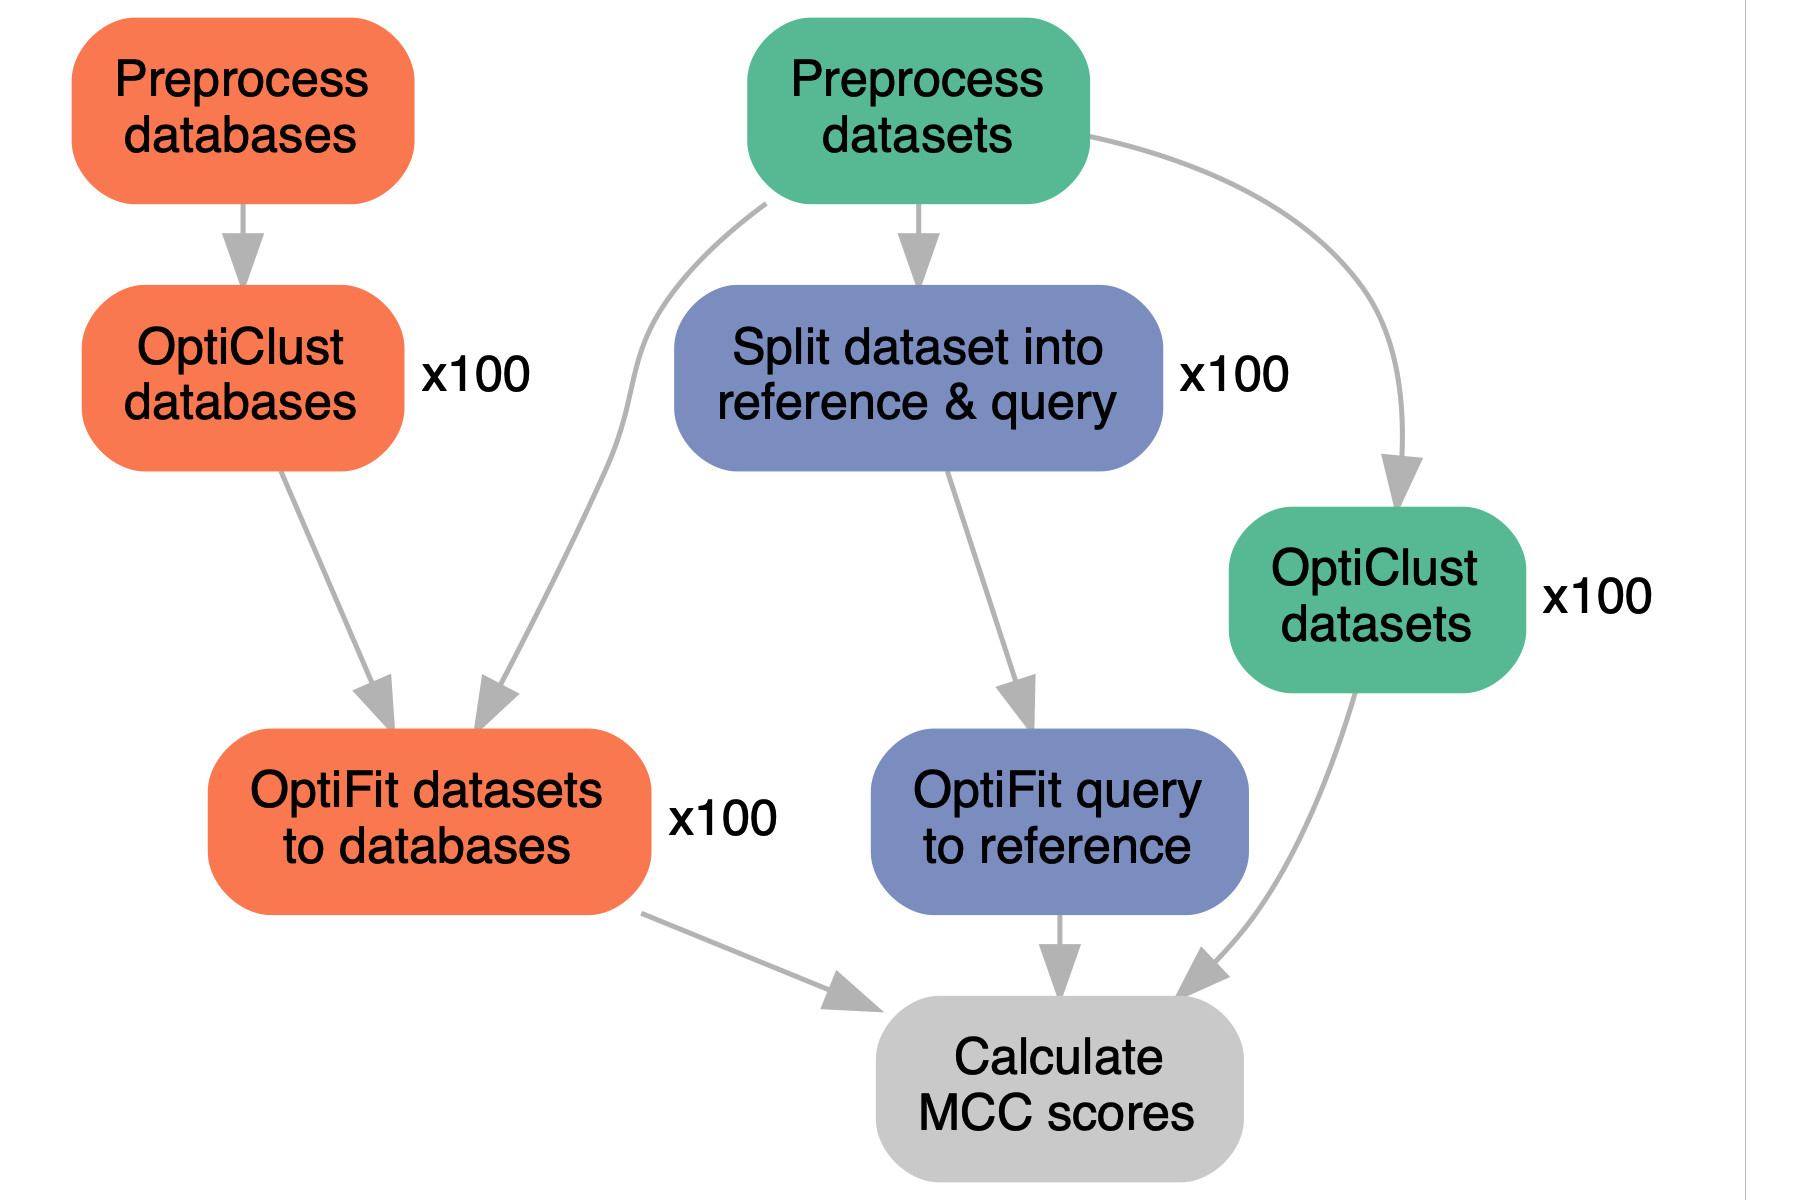
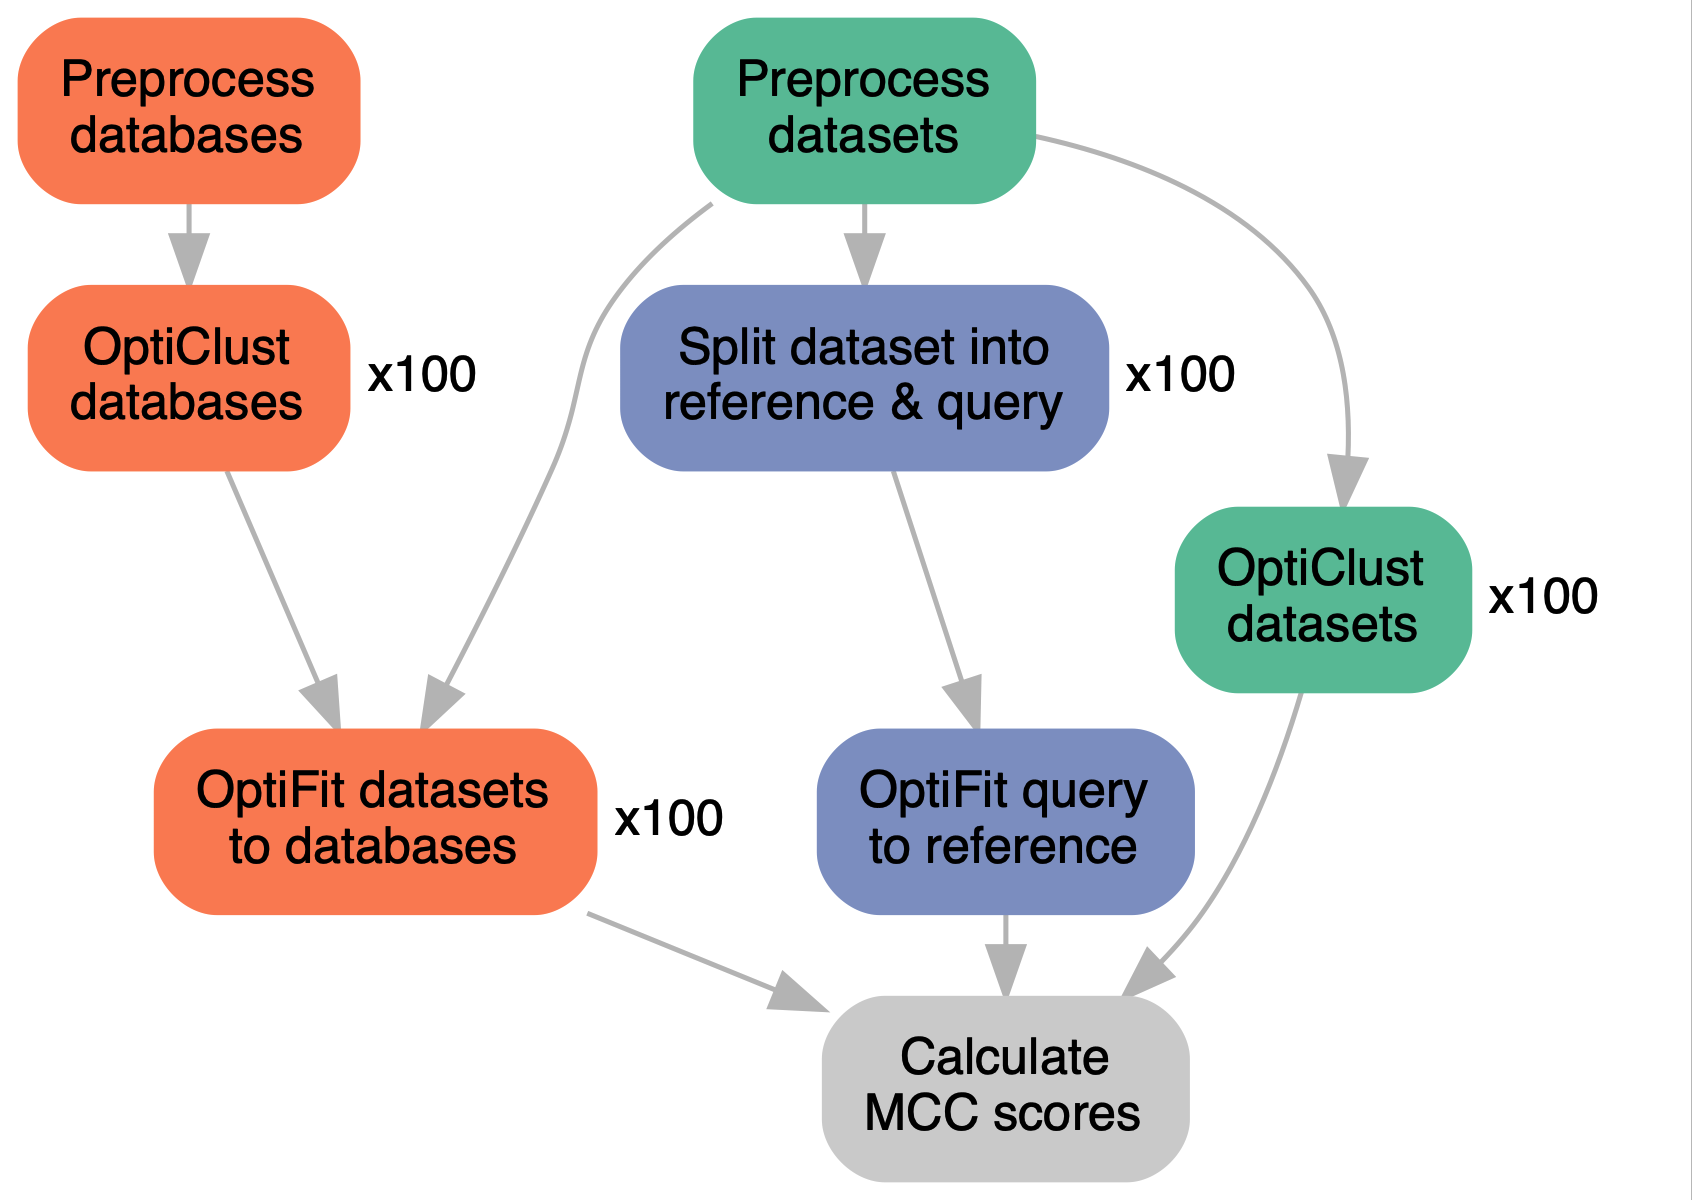
Manually set fig2 dimensions to remove gray bar
dot didn't output it as exactly 6x4, so Rmd was adding a gray bar to make up for it.
Corrected it by adding in the actual dimensions of the tiff file.

diff --git a/paper/paper.md b/paper/paper.md
@@ -1,7 +1,7 @@
 OptiFit: an improved method for fitting amplicon sequences to existing
 OTUs
 ================
-2021-10-26
+2021-10-29
 
 ## Abstract
 
